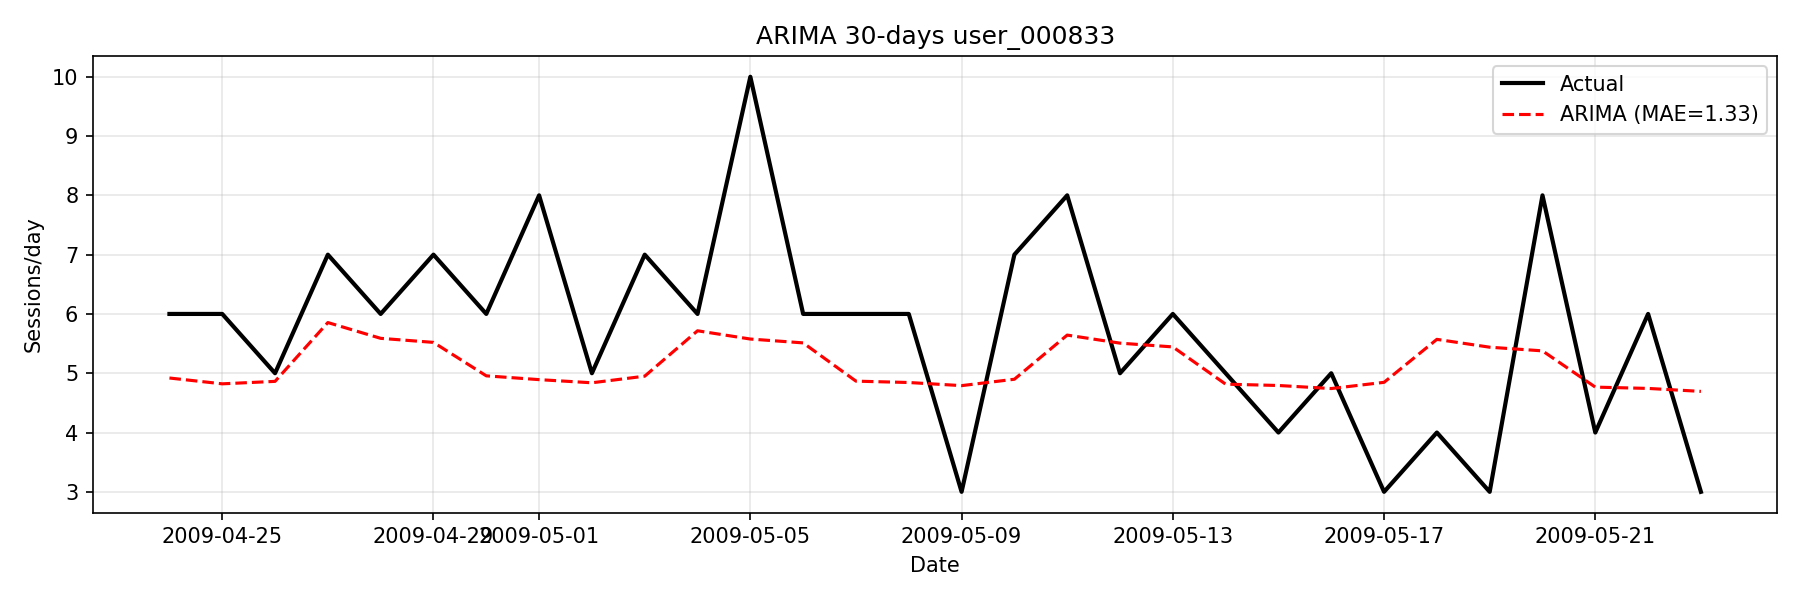
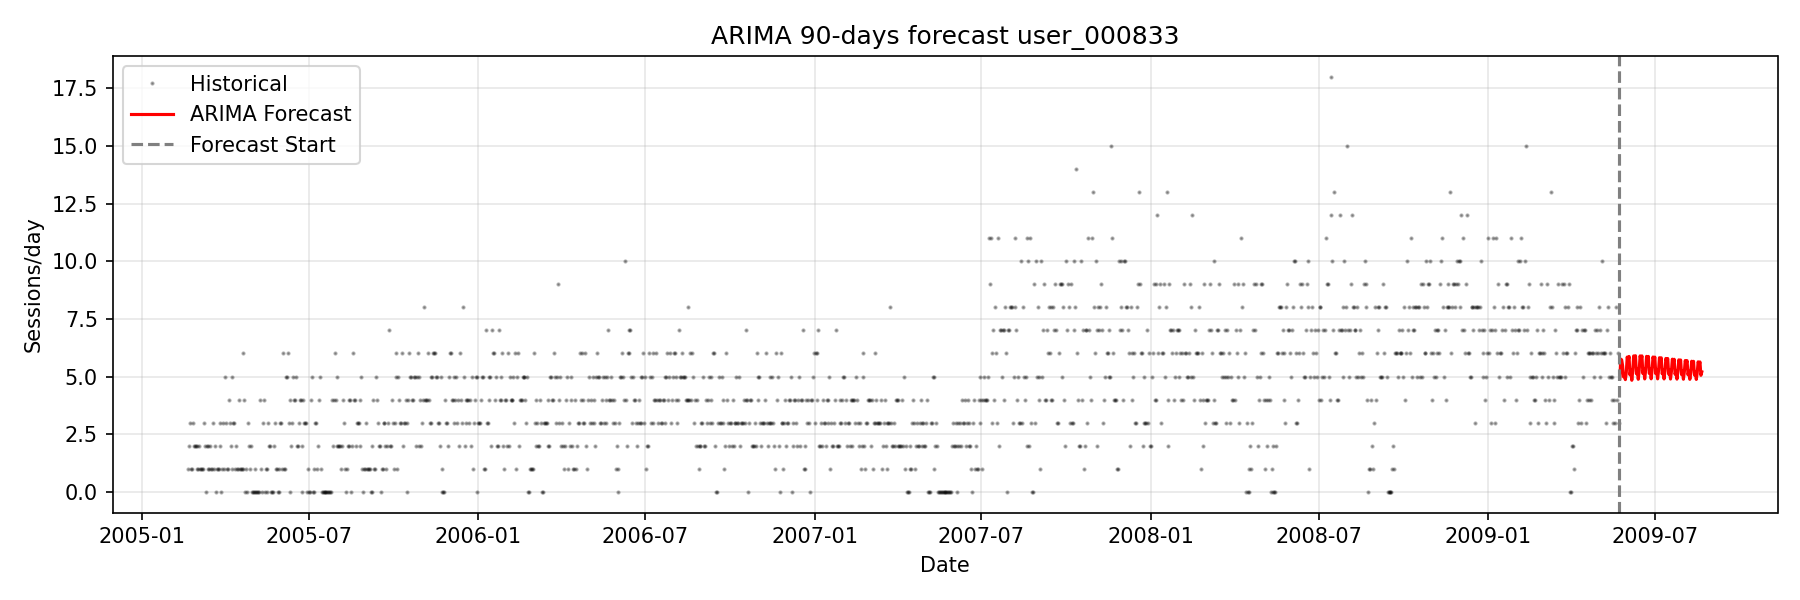
arima 90 days forcest

diff --git a/exercise3_arima.py b/exercise3_arima.py
@@ -1,5 +1,4 @@
 # ARIMA comparison, tried auto_arima against the naive baseline
-# run after exercsie3.py Prophet results are in exercsie3_validation.py
 
 import pandas as pd
 import matplotlib
@@ -11,11 +10,13 @@ from pyspark.sql import functions as F
 from pyspark.sql.types import IntegerType, StringType, StructType, StructField, TimestampType
 
 DATA_FILE = "data/lastfm-dataset-1K/userid-timestamp-artid-artname-traid-traname.tsv"
-OUTPUT_FILE = "output/arima_results.tsv"
+OUTPUT_FILE = "output/arima_forecast.tsv"
+OUTPUT_VALIDATION_FILE = "output/arima_validation.tsv"
 PLOT_FILE = "output/arima_plot.png"
 
 SESSION_GAP_SECONDS = 20 * 60  # 20 minutes
-HORIZON = 30  # forecast 30 days ahead
+HORIZON = 30
+FORECAST_DAYS = 90
 
 ####### reused from exercise3 (same data loading and sessionalization)
 
@@ -99,16 +100,28 @@ def main():
     mae = (abs(actual - pred)).mean()
     print(f"ARIMA MAE: {mae:.2f} sessions/day")
 
-    out= pd.DataFrame({"date": test["ds"].dt.strftime('%Y-%m-%d'), "actual": actual, "predicted": pred.round(1)})
-    out.to_csv(OUTPUT_FILE, index=False, sep="\t")
+    #save validation results
+    val_out = pd.DataFrame({"date": test["ds"].dt.strftime('%Y-%m-%d'), "actual": actual, "predicted": pred.round(1)})
+    val_out.to_csv(OUTPUT_VALIDATION_FILE, index=False, sep="\t")
+
+    # retrain on all data, forecast next 90 days
+    full_model = pm.auto_arima(daily["y"], seasonal=True, m=7, suppress_warnings=True, stepwise=True)
+    full_pred = full_model.predict(n_periods=FORECAST_DAYS).clip(lower=0) #no negative forecasts as sessions can't be negative
+
+    last_date = daily["ds"].max()
+    future_dates = pd.date_range(start=last_date + pd.Timedelta(days=1), periods=FORECAST_DAYS, freq="D")
+    fc_out= pd.DataFrame({"date": future_dates.strftime('%Y-%m-%d'), "predicted_sessions": full_pred.round(1)})
+    fc_out.to_csv(OUTPUT_FILE, index=False, sep="\t")
+    print(f"Forecast saved to {OUTPUT_FILE}")
 
     #plot
     fig, ax = plt.subplots(figsize=(12, 4))
-    ax.plot(test["ds"], actual, "k-", linewidth=2, label="Actual")
-    ax.plot(test["ds"], pred, "r--", linewidth=1.5, label=f"ARIMA (MAE={mae:.2f})")
+    ax.plot(daily["ds"], daily["y"], "k.",alpha=0.3, markersize=2, label="Historical")
+    ax.plot(future_dates, full_pred, "r-", linewidth=1.5, label=f"ARIMA Forecast")
+    ax.axvline(x=last_date, color="gray", linestyle="--", label="Forecast Start")
     ax.set_xlabel("Date")
     ax.set_ylabel("Sessions/day")
-    ax.set_title(f"ARIMA 30-days {top_user_id}")
+    ax.set_title(f"ARIMA 90-days forecast {top_user_id}")
     ax.legend()
     ax.grid(True, alpha=0.3)
     plt.tight_layout()

diff --git a/README.md b/README.md
@@ -31,6 +31,7 @@ pip install -r requirements.txt
 python exercise2.py
 python exercise3.py
 python exercise3_validation.py #optional to cross validate the model
+python exercise3_arima.py #optional to try ARIMA as alternative
 ```
 
 ## Approach
@@ -43,9 +44,16 @@ Then I count tracks per session -> take the top 50 -> count song plays across th
 
 ### Exercise 3 - Forecasting
 
-I picked the user with the most sessions, aggregated their daily session count, and used **Prophet** to forecast the next 3 months. Prophet handles weekly/yearly seasonality out of the box, which fits listening behaviour well.
-
 Metric chosen: **number of sessions per day**.
+
+I picked the user with the most sessions, aggregated their daily session count, and started with **Prophet** since it handles weekly/yearly seasonality out of the box (`exercise3.py`).
+
+Then I wanted to check if Prophet actually adds value, so I ran cross-validation against a naive baseline (predict= avg for that weekday). Turns out the baseline wins: MAE = 1.69 vs Prophet = 1.94. The user's behaviour is very regular by day-of-week and Prophet's extra complexity doesn't help (`exercise3_validation.py`).
+
+That made me to try **ARIMA** as a simpler alternative (auto_arima) with weekly seasonality (`exercise3_arima.py`). It focuses on short-term patterns (yesterday predicts today) rather than decomposing into trend + seasonality.
+
+ARIMA scored MAE = 1.33, best of the three. It captures both the weekly pattern and short-term momentum (yesterday predicts today). So the ARIMA script also produces the full 90 days forecast as an alternative to Prophet's.
+
 
 ## Assumptions
 
@@ -56,12 +64,16 @@ Metric chosen: **number of sessions per day**.
 
 ## What I'd improve with more time
 
-- Try ARIMA as an alternative to Prophet
-
-    - Tuning Prophet didn't help, ARIMA might be better in production. Prophet is designed for data with trends and multiple seasonality layers, which the user doesn't have. That makes me believe that Prophet might be the wrong choice for this particular user/use case, but it was a reasonable first choice before I had evidence.
-
+- Tune ARIMA further (e.g. try different seasonal periods)
 - Add feature engineering (day-of-wek effects, holidays etc.)
 - Explore session duration as an alternative forecast metric
 - More data quality checks upfront
 - Pull the shared logic out into a small `helpers.py` that both `exercise3.py` and `exercise3_validation.py` import
-- Better handling of ties in the top 10 ranking
+
+### Initial improvement ideas (now implemented)
+- ~~Compare Prophet vs ARIMA~~
+- ~~Try ARIMA as an alternative to Prophet~~
+
+    ~~- Tuning Prophet didn't help, ARIMA might be better in production. Prophet is designed for data with trends and multiple seasonality layers, which the user doesn't have. That makes me believe that Prophet might be the wrong choice for this particular user/use case, but it was a reasonable first choice before I had evidence.~~
+
+- ~~Do proper cross-validation~~